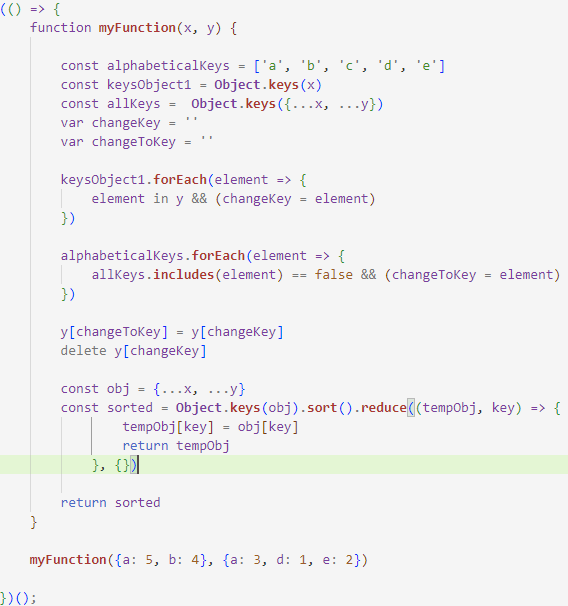
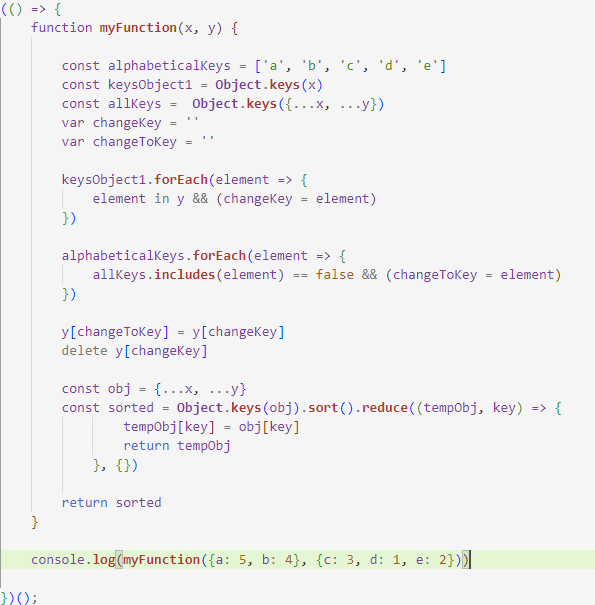
Updated README.md

diff --git a/challange02/index.js b/challange02/index.js
@@ -27,6 +27,6 @@
         return sorted
     }
 
-    myFunction({a: 5, b: 4}, {a: 3, d: 1, e: 2})
+    console.log(myFunction({a: 5, b: 4}, {c: 3, d: 1, e: 2}))
 
 })();

diff --git a/README.md b/README.md
@@ -5,15 +5,22 @@
 ### Time: 8 hours (13:30 - 21:30)
 
 
+
 ## Challenge 1:
 
 ### Challenge:
 
 ![challenge 1](./pictures/challange01.png)
 
-### solution: 
+### Solution: 
 
 ![solution 1](./pictures/solutionJS01.png)
+
+### Explanation
+
+If the given key exist in the given object, the function returns the value of that key.
+If not, it returns that the key is not found within the object.
+
 
 
 ## Challenge 2:
@@ -22,9 +29,28 @@
 
 ![challenge 2](./pictures/challange02.png)
 
-### solution: 
+### Solution: 
 
 ![solution 2](./pictures/solutionJS02.png)
+
+### Explanation
+
+The first const alphabeticalKeys is an array that contains the wanted keys in string form.
+The second one is an array that contains the keys of the first object x.
+The third one again is an array that contains all the keys in the given objects, as from x as from y.
+
+I declared the two variables first, I could have declared them later when used, but this is easthetically more pleasing.
+
+The first things that happen are two forEach loops:
+    - To check if there is a key that is double and should be changed later.
+    - To check if there is a key double and which one exactly.
+
+Later the value of the to be changed key is assigned to the new key.
+A new object is created which contains the first object x and the updated object y.
+And lastly the object is sorted so that the keys are in alphabetical order.
+
+This is the object that is returned.
+
 
 
 ## Challenge 3:
@@ -33,6 +59,19 @@
 
 ![challenge 3](./pictures/challange03.png)
 
-### solution: 
+### Solution: 
 
 ![solution 3](./pictures/solutionJS03.png)
+
+### Explanation
+
+const button is the button in the HTML that was given.
+const list is the list in the same HTML.
+
+When the button is clicked, the const valueToAdd is set to the value of the input field in the HTML.
+Then a new 'li'-HTML element is created and the text node of this element is set to the value of valueToAdd.
+
+And lastly the listItem or 'li'-HTML element is added to the list in the HTML.
+
+This code could be 4 lines shorter due to the unnecessary declarations of the constants and variables
+but I choose again for the easthetically more pleasing option.
